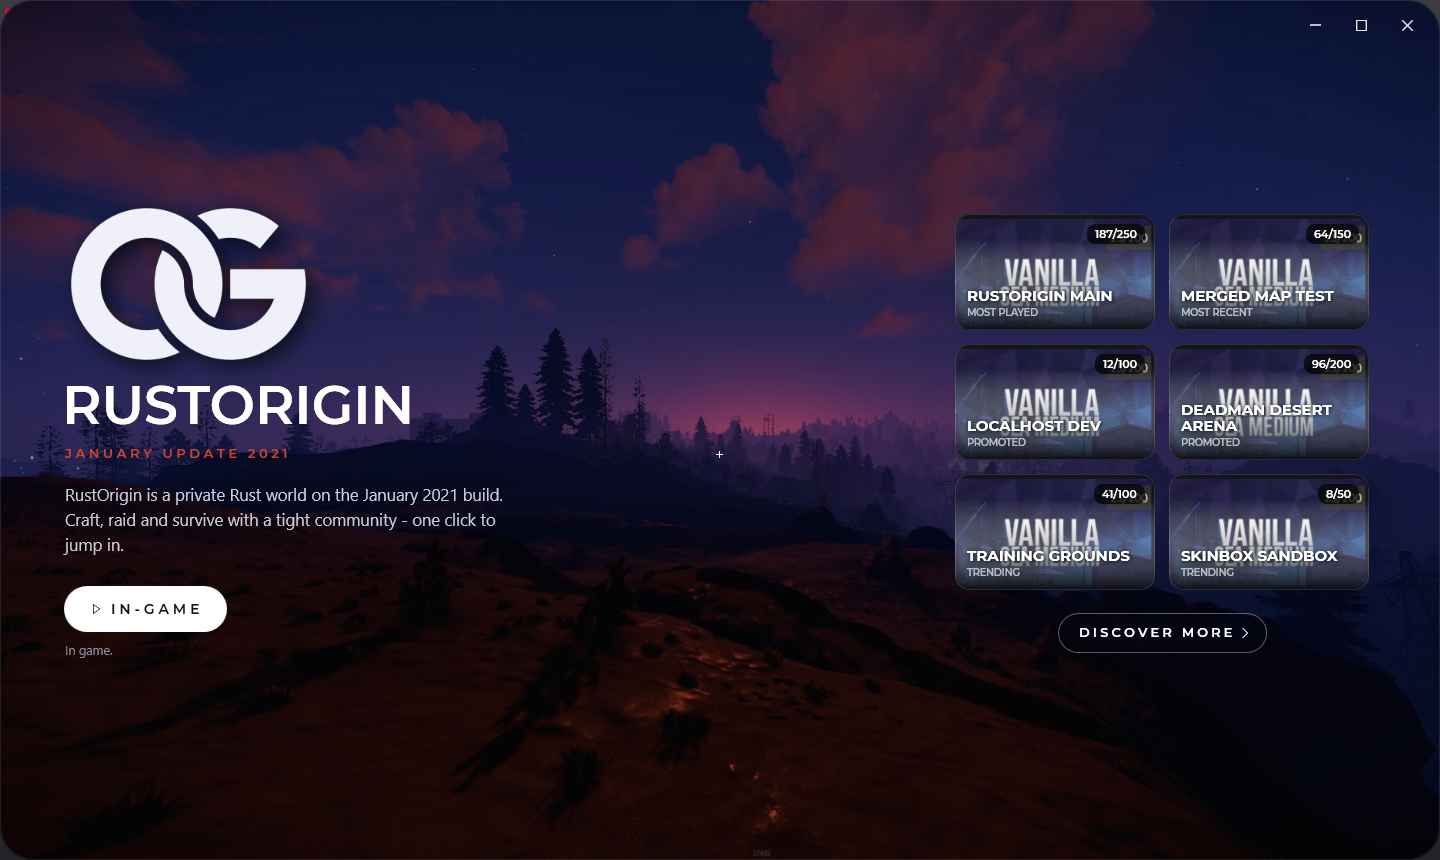
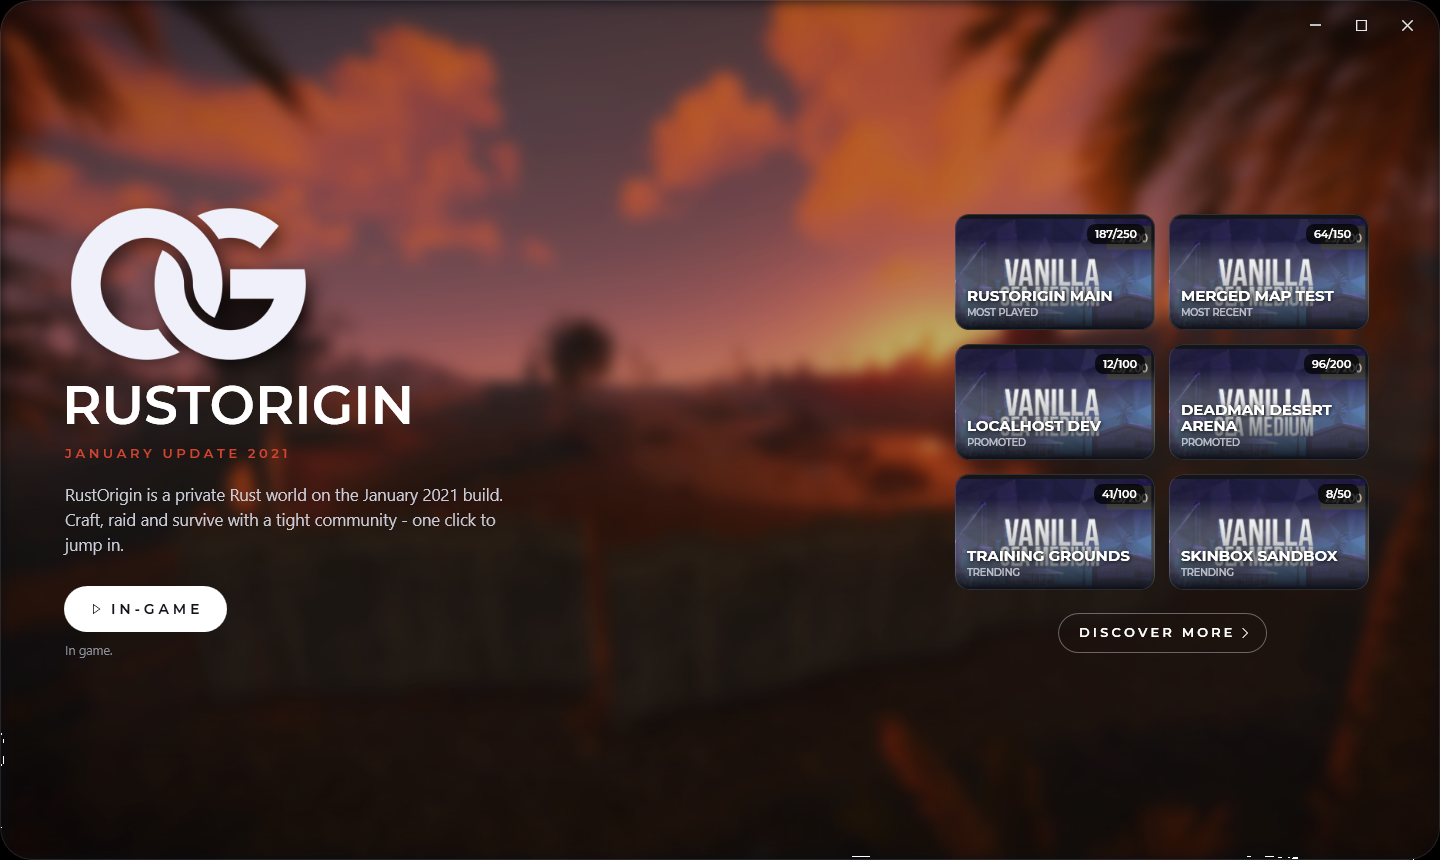
Add a soft blur to the background slideshow
BlurEffect (radius 22, Gaussian, performance bias) on bgHost, rendered at half
resolution via BitmapCache so it stays cheap during the cross-fade. Softens the
background so the foreground UI reads cleanly. Updated the README screenshot and
CLAUDE.md.

diff --git a/src/WpfLauncher.cs b/src/WpfLauncher.cs
@@ -431,6 +431,16 @@ public class LauncherWindow : Window
         bgHost = new Grid();
         bgHost.Children.Add(slideBack);
         bgHost.Children.Add(slideFront);
+        // Soft blur on the whole background so the foreground UI reads cleanly. Rendered at half
+        // resolution (blur is low-frequency, so this is invisible) with a performance bias to stay
+        // cheap during the cross-fade.
+        bgHost.Effect = new System.Windows.Media.Effects.BlurEffect
+        {
+            Radius = 22,
+            KernelType = System.Windows.Media.Effects.KernelType.Gaussian,
+            RenderingBias = System.Windows.Media.Effects.RenderingBias.Performance
+        };
+        bgHost.CacheMode = new BitmapCache { RenderAtScale = 0.5, SnapsToDevicePixels = false };
         mainGrid.Children.Add(bgHost);
 
         // Auto-switch every 7s with a ~0.9s cross-fade (gated by the BgSlideshow pref).

diff --git a/CLAUDE.md b/CLAUDE.md
@@ -43,9 +43,9 @@ Extract to InstallDir  ->  launch LaunchExe (RustClient.exe)
   resources and unpacked at first run to `%LOCALAPPDATA%\RustOrigin\assets\<version>\` (loaded from
   real files for the images and private fonts).
 - The background is a **cross-fading slideshow** of `1.jpg`-`4.jpg` (switches every ~7s; see
-  `BuildBackground` / `NextSlide`), shown cleanly over a light uniform scrim (`BuildGradient`) -
-  no vignette, side gradients, or backdrop blur. Glass panels are flat translucent. Toggle the
-  auto-switch via the `BgSlideshow` pref.
+  `BuildBackground` / `NextSlide`), **softly blurred** (a `BlurEffect` on `bgHost`, half-res cached)
+  under a light uniform scrim (`BuildGradient`) so the foreground UI reads cleanly - no vignette or
+  side gradients. Glass panels are flat translucent. Toggle the auto-switch via the `BgSlideshow` pref.
 - A `launcher.cfg` placed **next to the exe** overrides the embedded defaults at runtime.
 
 ## Download behavior (implemented)
